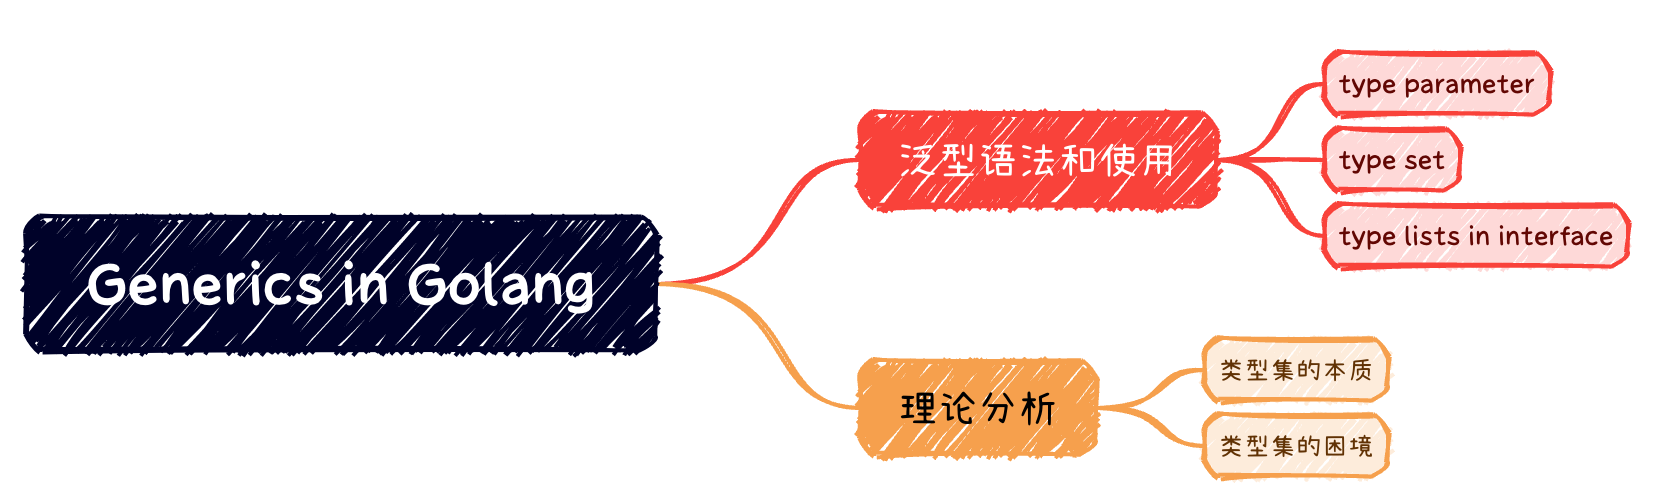
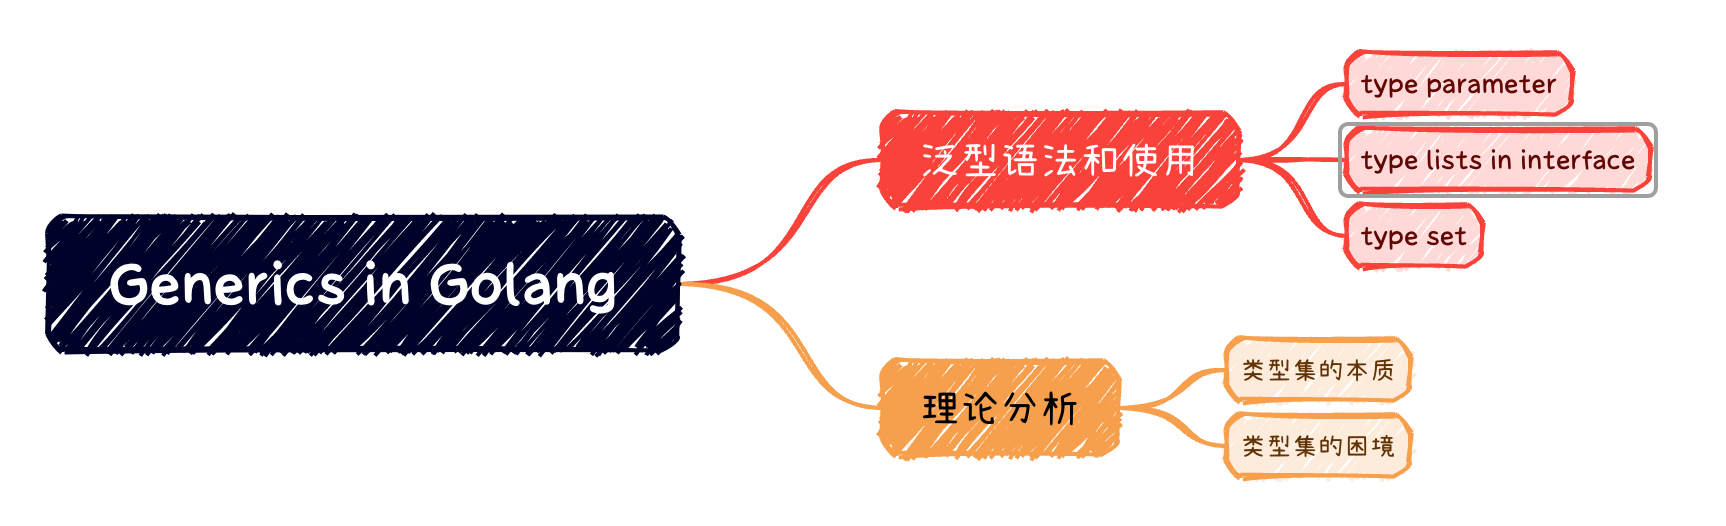
完成go的泛型笔记

Changed region(s): [[0.0, 0.0896, 0.9855, 0.7171], [0.462, 0.6275, 0.8623, 0.9562]]

diff --git a/computer_programs/PL/mainstream_industrial_language/golang/generics.md b/computer_programs/PL/mainstream_industrial_language/golang/generics.md
@@ -85,9 +85,79 @@ func bar(T Ia[int]) {} // interface includes constraint element '*T', can only b
 func bat(T Ib[int]) {} // OK
 ```
 
+### type list in interface
+
+```go
+
+type Type1 interface {
+	M1()
+}
+
+func F1[T Type1](t T) {}
+
+type MyType1 string
+
+func (t *MyType1) M1() {}
+
+var t1 = new(MyType1)
+F1(t1)
+
+```
+
+对F1而言，所有满足Type1的类型，都可以作为参数传入。为了传入原生类型，我们给string包装了一层，然后加上接口Type1要求的M1方法。
+
+可见对于原生类型，通过实现自定义的接口方法集合，有些绕。为了解决这个问题，引入type list到interface中，不过仅仅能做泛型类型参数的约束检查：
+
+```go
+
+type Type2 interface {
+	int | string
+	M2()
+}
+
+func F2[T Type2](t T) {
+
+}
+
+type MyT2 string
+
+func (t2 MyT2) M2() {
+	
+}
+
+t2 := MyT2("hello")
+F2(t2)
+
+var i3 Type2 // Interface includes constraint elements 'int', 'string', can only be used in type parameters
+```
+
+Type2中的`int | string`就是type list。作为类型参数，类型必须在type list中，且必须实现接口类型的所有方法。
+
+由于1.18 版本中泛型不完备，interface使用type list以后，就无法作为普通interface使用，仅仅能做constrain限制。
+
+
 ### type set
 
-### type list in interface
+type set 是对type list写法的改进：
+
+```go
+// 旧语法
+type SignedInteger interface {
+	type int, int8, int16, int32, int64
+}
+
+// type set
+type SignedInteger interface {
+	~int | ~int8 | ~int16 | ~int32 | ~int64
+}
+
+```
+
+点评：
+
+- 总体感觉Golang的泛型设计，不够完备，不够成熟，语法也有些怪。引入概念也不够清晰，我怀疑Golang设计者，对编程语言类型系统理解不够深入。
+- type list看起来是为了，弥补基础类型和自定义类型的gap。type list也做得不够完善，有一些限制，最终还是有gap。
+- 而 type set只是写法一种优化，还使用`~`，大概是为了表示这是类型的类型。
 
 ## 理论分析
 
